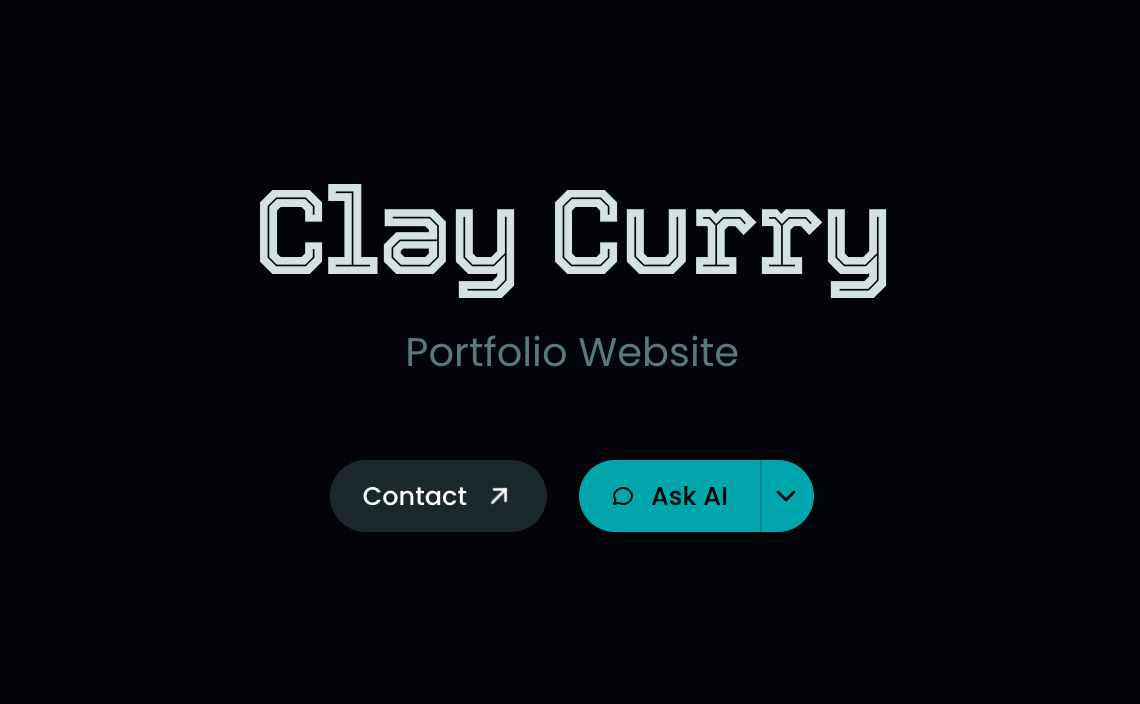
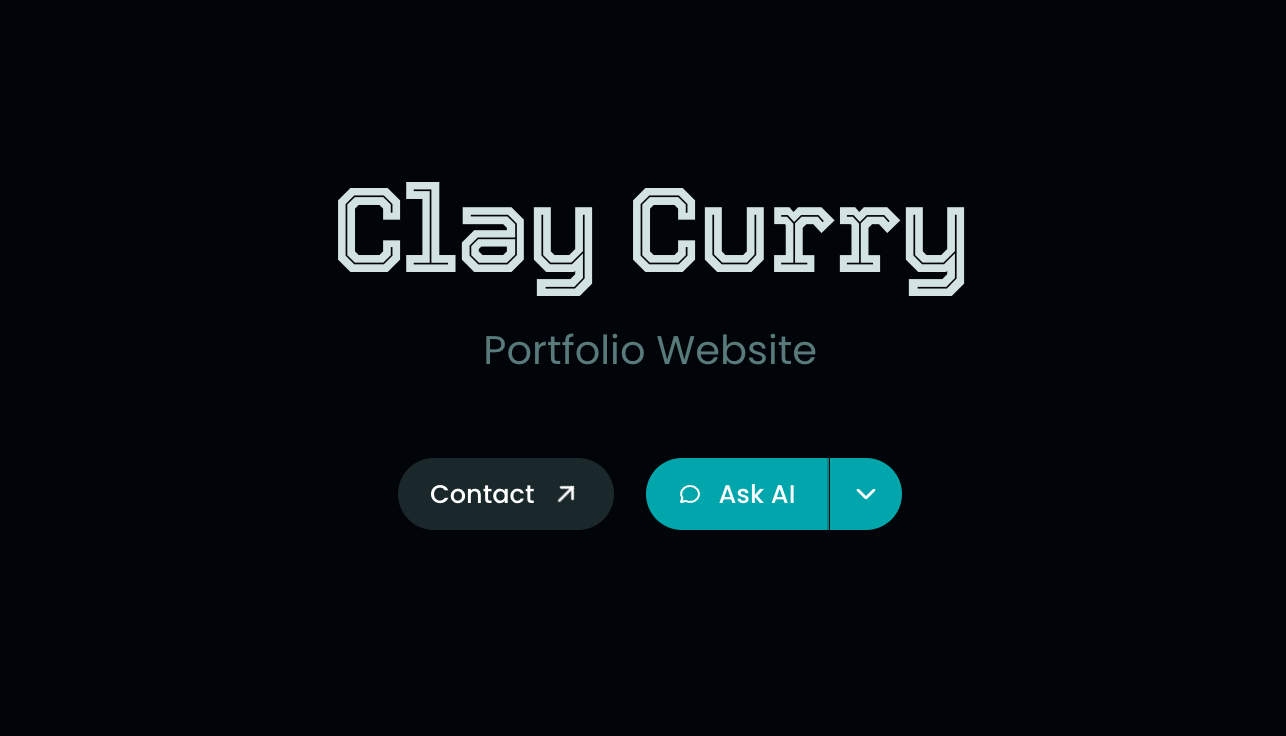
Remove unused assets, update About section, fix Tourney font
- Delete 11 unused public assets (~5.5MB saved)
- Update About description to focus on ML + product engineering
- Fix Tourney font circular reference in globals.css
- Add .env* to gitignore

Changed region(s): [[0.2149, 0.25, 0.7982, 0.5312], [0.2763, 0.625, 0.7368, 0.7812]]

diff --git a/apps/www-tron/lib/portfolio-data.ts b/apps/www-tron/lib/portfolio-data.ts
@@ -14,8 +14,7 @@ export const profileData = {
 
 export const aboutData = {
   description: [
-    "I'm a Software Engineer from Oklahoma City, Oklahoma, experienced in web technologies and user interface design. ",
-    "My superpower is turning complex problems into simple, beautiful and intuitive applications. This means building products that not only bring across your message and identity but grow and refine it by integrating user feedback."
+    "My superpower is bridging machine learning and product engineering—turning complex ML systems into intuitive user experiences. I'm passionate about building products that learn from user behavior and continuously improve through feedback loops."
   ],
   services: [
     {

diff --git a/apps/www-tron/app/globals.css b/apps/www-tron/app/globals.css
@@ -109,7 +109,7 @@
 @theme inline {
   --font-sans: var(--font-poppins), system-ui, sans-serif;
   --font-mono: var(--font-geist-mono), 'Geist Mono', ui-monospace, monospace;
-  --font-tourney: var(--font-tourney);
+  --font-tourney: 'Tourney', system-ui, sans-serif;
 
   /* TRON Custom Colors */
   --color-tron-cyan: oklch(0.75 0.2 195);
